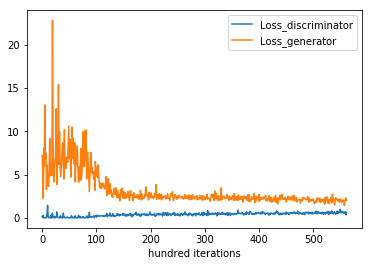
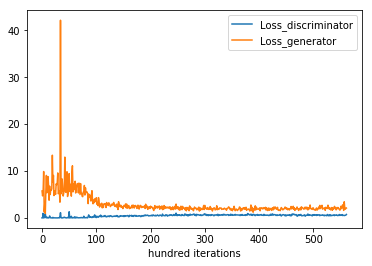
Modified the networks, the plot function

diff --git a/GAN/GAN_mnist.py b/GAN/GAN_mnist.py
@@ -20,12 +20,7 @@ import tensorpack as tp
 
 mode="gen" # "train" or "gen"
 
-img_shape = (28, 28) # 28x28 MNIST images
-img_dim = 28*28  # flattened
 z_dim = 100
-
-hidden_layer_units_d = 512
-hidden_layer_units_g = 512
 alpha = 0.01 # for leaky ReLU
 
 batch_size = 64
@@ -71,30 +66,39 @@ def main(mode=mode):
 
 
 
-def generator(z, img_dim=img_dim, n_units=hidden_layer_units_g, reuse=False):
+def generator(z, reuse=False):
     """the generator (network)
     
     Args:
         z (tf.placeholder): Placeholder for variables z
-        img_dim: size of images, 
-        n_units: 
         reuse: 
-        alpha:
     Returns:
         out (tf.Tensor): generated imgs from z
     """
     with tf.variable_scope('generator', reuse=reuse):
+        w_init = tf.truncated_normal_initializer(mean=0, stddev=0.02)
+        b_init = tf.constant_initializer(0.)
         # hidden layers
-        net = tf.layers.dense(z, n_units, activation=tf.nn.relu)
-        net = tf.layers.dense(net, n_units, activation=tf.nn.relu)
+        w0 = tf.get_variable('g_w0', [100, 256], initializer=w_init)
+        b0 = tf.get_variable('g_b0', [256], initializer=b_init)
+        net = tf.nn.relu(tf.matmul(z, w0) + b0)
         
-        return tf.layers.dense(net, img_dim, activation=tf.nn.tanh)
+        w1 = tf.get_variable('g_w1', [256, 512], initializer=w_init)
+        b1 = tf.get_variable('g_b1', [512], initializer=b_init)
+        net = tf.nn.relu(tf.matmul(net, w1) + b1)
+        
+        w2 = tf.get_variable('g_w2', [512, 1024], initializer=w_init)
+        b2 = tf.get_variable('g_b2', [1024], initializer=b_init)
+        net = tf.nn.relu(tf.matmul(net, w2) + b2)
+        # output layer
+        w3 = tf.get_variable('g_w3', [1024, 784], initializer=w_init)
+        b3 = tf.get_variable('g_b3', [784], initializer=b_init)
+        return tf.nn.tanh(tf.matmul(net, w3) + b3)
 
-def discriminator(x, n_units=hidden_layer_units_d, reuse=False, alpha=alpha):
+def discriminator(x, reuse=False, alpha=alpha):
     """the discriminator (network)
     Args:
         x (tf.placeholder): Placeholder for images
-        n_units: 
         reuse: 
         alpha:
     Returns:
@@ -102,13 +106,24 @@ def discriminator(x, n_units=hidden_layer_units_d, reuse=False, alpha=alpha):
         logits (tf.Tensor): discriminating results
     """
     with tf.variable_scope('discriminator', reuse=reuse):
+        w_init = tf.truncated_normal_initializer(mean=0, stddev=0.02)
+        b_init = tf.constant_initializer(0.)
         # hidden layers
-        net = tf.layers.dense(x, n_units, activation=tf.identity)
-        net = tf.nn.leaky_relu(net, alpha=alpha)
-        net = tf.layers.dense(net, n_units, activation=tf.identity)
-        net = tf.nn.leaky_relu(net, alpha=alpha)
+        w0 = tf.get_variable('d_w0', [784, 1024], initializer=w_init)
+        b0 = tf.get_variable('d_b0', [1024], initializer=b_init)
+        net = tf.nn.leaky_relu(tf.matmul(x, w0) + b0, alpha=alpha)
         
-        return tf.layers.dense(net, 1, activation=tf.identity)
+        w1 = tf.get_variable('d_w1', [1024, 512], initializer=w_init)
+        b1 = tf.get_variable('d_b1', [512], initializer=b_init)
+        net = tf.nn.leaky_relu(tf.matmul(net, w1) + b1, alpha=alpha)
+        
+        w2 = tf.get_variable('d_w2', [512, 256], initializer=w_init)
+        b2 = tf.get_variable('d_b2', [256], initializer=b_init)
+        net = tf.nn.leaky_relu(tf.matmul(net, w2) + b2, alpha=alpha)
+        # output layer
+        w3 = tf.get_variable('d_w3', [256, 1], initializer=w_init)
+        b3 = tf.get_variable('d_b3', [1], initializer=b_init)
+        return tf.matmul(net, w3) + b3
 
 def loss_discriminator(logits_real, logits_fake):
     """compute the loss of discriminator (-original objective, so minimize later)
@@ -155,7 +170,7 @@ def make_graph():
         g_loss: tf.Tensor holding the resulting loss of discriminator, generator
     """
     # the inputs can be real images and latent variables z
-    inputs_img = tf.placeholder(tf.float32, (None, img_dim), name="inputs_img")
+    inputs_img = tf.placeholder(tf.float32, (None, 784), name="inputs_img")
     inputs_z = tf.placeholder(tf.float32, (None, z_dim), name="inputs_z")
     
     genert_img = generator(inputs_z, reuse=False)
@@ -201,11 +216,15 @@ def run_training(sess, training_iterator, d_train_op, g_train_op,
         g_loss (tf.Tensor): loss tensor
         nepochs (int): number of epochs to run training
     Returns:
-        samples: list of [9,28*28] np arrays, imgs generated at the end of each epoch
+        samples: list of [9,28*28] np arrays, imgs generated before training 
+                 and at the end of each epoch
         d_losses,
         g_losses: lists of losses of discriminator, generator
     """
-    samples = []
+    samples = [sess.run(
+                generator(inputs_z, reuse=True),
+                feed_dict={inputs_z: np.random.uniform(-1, 1, size=(9, z_dim))}
+                )]
     d_losses = []
     g_losses = []
     saver = tf.train.Saver(var_list =
@@ -217,7 +236,7 @@ def run_training(sess, training_iterator, d_train_op, g_train_op,
         training_iterator.reset_state()
         for batch_x, _ in training_iterator:
             # Reshape to feed it into the network
-            batch_x = batch_x.reshape(-1, img_dim)
+            batch_x = batch_x.reshape(-1, 784)
             batch_x = batch_x*2 - 1 # because we use tanh for output of generator
             
             batch_z = np.random.uniform(-1, 1, size=(batch_size, z_dim))
@@ -241,7 +260,8 @@ def run_training(sess, training_iterator, d_train_op, g_train_op,
         z = np.random.uniform(-1, 1, size=(9, z_dim))
         gen_samples = sess.run(
                        generator(inputs_z, reuse=True),
-                       feed_dict={inputs_z: z})
+                       feed_dict={inputs_z: z}
+                       )
         samples.append(gen_samples)
         saver.save(sess, './checkpoints/generator.ckpt')
     return samples, d_losses, g_losses
@@ -278,21 +298,33 @@ def plot_one_set_of_samples(samples, epoch, filename="samples_training_.png"):
     fig = plt.figure(figsize=(7,7))
     for i, img in enumerate(samples[epoch]):
         ax=plt.subplot(3,3,i+1)
-        ax.imshow(img.reshape(img_shape), cmap='gray')
+        ax.imshow(img.reshape((28,28)), cmap='gray')
         ax.axis('off')
     plt.savefig(filename, bbox_inches='tight')
     return fig
 
 def plot_training_samples_improvement(samples, filename="samples_training_progress.png"):
-    nepoch = len(samples)
-    fig = plt.figure( figsize=(18,2*((nepoch-1)//5)+1) )
-    for i in range(0,nepoch,5):
-        for j, img in enumerate(samples[i]):
-            ax=plt.subplot((nepoch-1)//5 + 1,9,i*9/5 + j+1)
-            ax.imshow(img.reshape(img_shape), cmap='gray')
+    nepoch = len(samples) - 1 # the first one is set of images before training
+    fig = plt.figure( figsize=(18,2*((nepoch-1)//5)+2) )
+    epoch_idx = 0
+    while True:
+        # plot
+        for j, img in enumerate(samples[epoch_idx]):
+            ax=plt.subplot((nepoch-1)//5 + 2, 9, epoch_idx*9/5 + j+1)
+            ax.imshow(img.reshape((28,28)), cmap='gray')
             ax.axis('off')
             if j==0:
-                ax.set_title("epoch %d"%(i+1))
+                if epoch_idx == 0:
+                    ax.set_title("Before training")
+                else:
+                    ax.set_title("epoch %d"%(epoch_idx))
+        # the epoch we want to plot next
+        if epoch_idx == nepoch:
+            break
+        elif epoch_idx <= nepoch-5:
+            epoch_idx = epoch_idx+5
+        else:
+            epoch_idx = nepoch
     plt.savefig(filename, bbox_inches='tight')
     return fig
 
